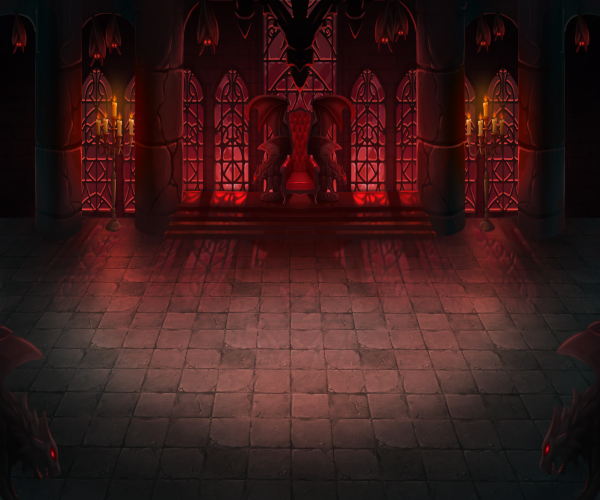
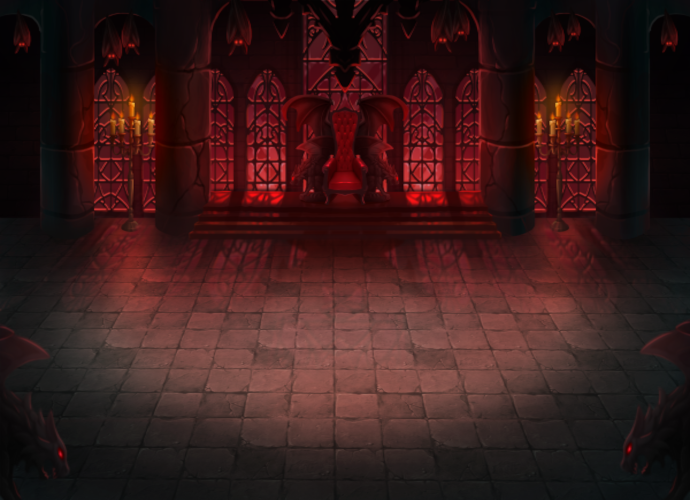
add efeito parallax

diff --git a/codigo/FactoryPerson.py b/codigo/FactoryPerson.py
@@ -1,9 +1,22 @@
+import os
 from codigo.Background import Background
+from codigo.Const import WINDOW_WIDTH
+
 
 class FactoryPerson:
 
     @staticmethod
-    def get_personagem(personagem_name:str, position=(0,0)):
+    def get_personagem(personagem_name: str, position=(0, 0)):
         match personagem_name:
-            case 'imglevelfull':
-                return [Background('imglevelfull', position)]
+            case 'floresta':
+                list_png = []
+                for i in range(1,4):
+                    nome_arquivo = rf'C:\Users\icaro\PycharmProjects\DarkMonster\asset\assets\PNG\2\floresta{i}.png'
+
+                    if os.path.exists(nome_arquivo):
+                        list_png.append(Background(f'floresta{i}', (0,0)))
+                        list_png.append(Background(f'floresta{i}', (WINDOW_WIDTH,0)))
+                    else:
+                        print(f"img {nome_arquivo} não encontrada")
+
+                return list_png

diff --git a/codigo/Level.py b/codigo/Level.py
@@ -12,7 +12,7 @@ class Level:
         self.name = name
         self.game_mode = game_mode
         self.personagem_list: list[Personagem] = []
-        self.personagem_list.extend(FactoryPerson.get_personagem('imglevelfull'))
+        self.personagem_list.extend(FactoryPerson.get_personagem('floresta'))
 
     def run(self):
         running = True
@@ -22,6 +22,7 @@ class Level:
                     running = False
 
             for pers in self.personagem_list:
-                self.window.blit(pers.surf, pers.rect)
-
+                self.window.blit(source=pers.surf, dest=pers.rect)
+                pers.move()
             pygame.display.flip()
+        pass

diff --git a/codigo/Personagem.py b/codigo/Personagem.py
@@ -8,7 +8,7 @@ import pygame.image
 class Personagem(ABC):
     def __init__(self, name: str, position: tuple):
         self.name = name
-        self.surf = pygame.image.load(r'C:\Users\icaro\PycharmProjects\DarkMonster\asset\assets\PNG\2'+name+'.png').convert_alpha()
+        self.surf = pygame.image.load(r'C:\Users\icaro\PycharmProjects\DarkMonster\asset\assets\PNG\2\\'+name+'.png').convert_alpha()
 
         self.rect = self.surf.get_rect(left=position[0], top=position[1])
         self.velocidade = 0

diff --git a/codigo/Background.py b/codigo/Background.py
@@ -1,3 +1,4 @@
+from codigo.Const import WINDOW_WIDTH, OBJ_SPEED
 from codigo.Personagem import Personagem
 
 
@@ -6,4 +7,6 @@ class Background(Personagem):
         super().__init__(name, position)
 
     def move(self,):
-        pass
+        self.rect.centerx -= 0.7
+        if self.rect.right <= 0:
+            self.rect.left = WINDOW_WIDTH

diff --git a/codigo/Const.py b/codigo/Const.py
@@ -2,5 +2,11 @@ NEW_GAME = ('N', 'O', 'V', 'O', ' ', 'J', 'O', 'G', 'O')
 EXIT = ('S', 'A', 'I', 'R')
 SCORE = ('R', 'A', 'N', 'K')
 
-WINDOW_WIDTH = 600
+WINDOW_WIDTH = 690
 WINDOW_HEIGHT = 500
+
+OBJ_SPEED = {
+    'floresta1': 0,
+    'floresta2': 1,
+    'floresta3': 2,
+}
